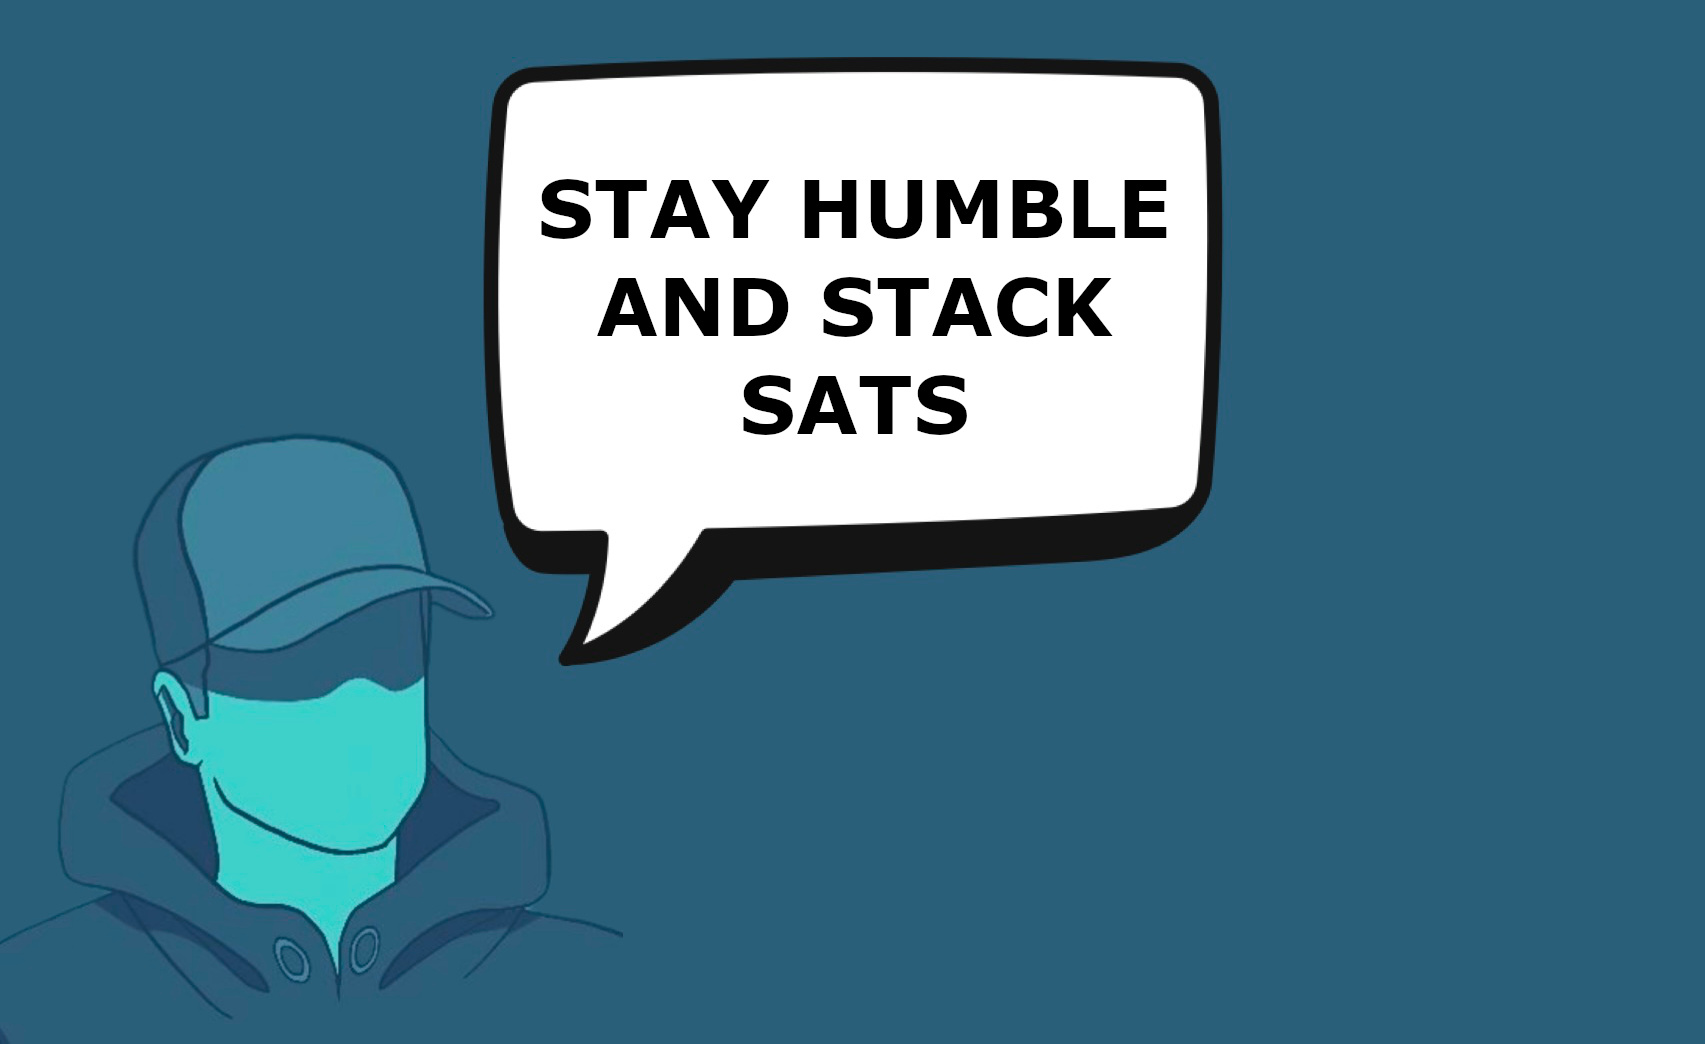
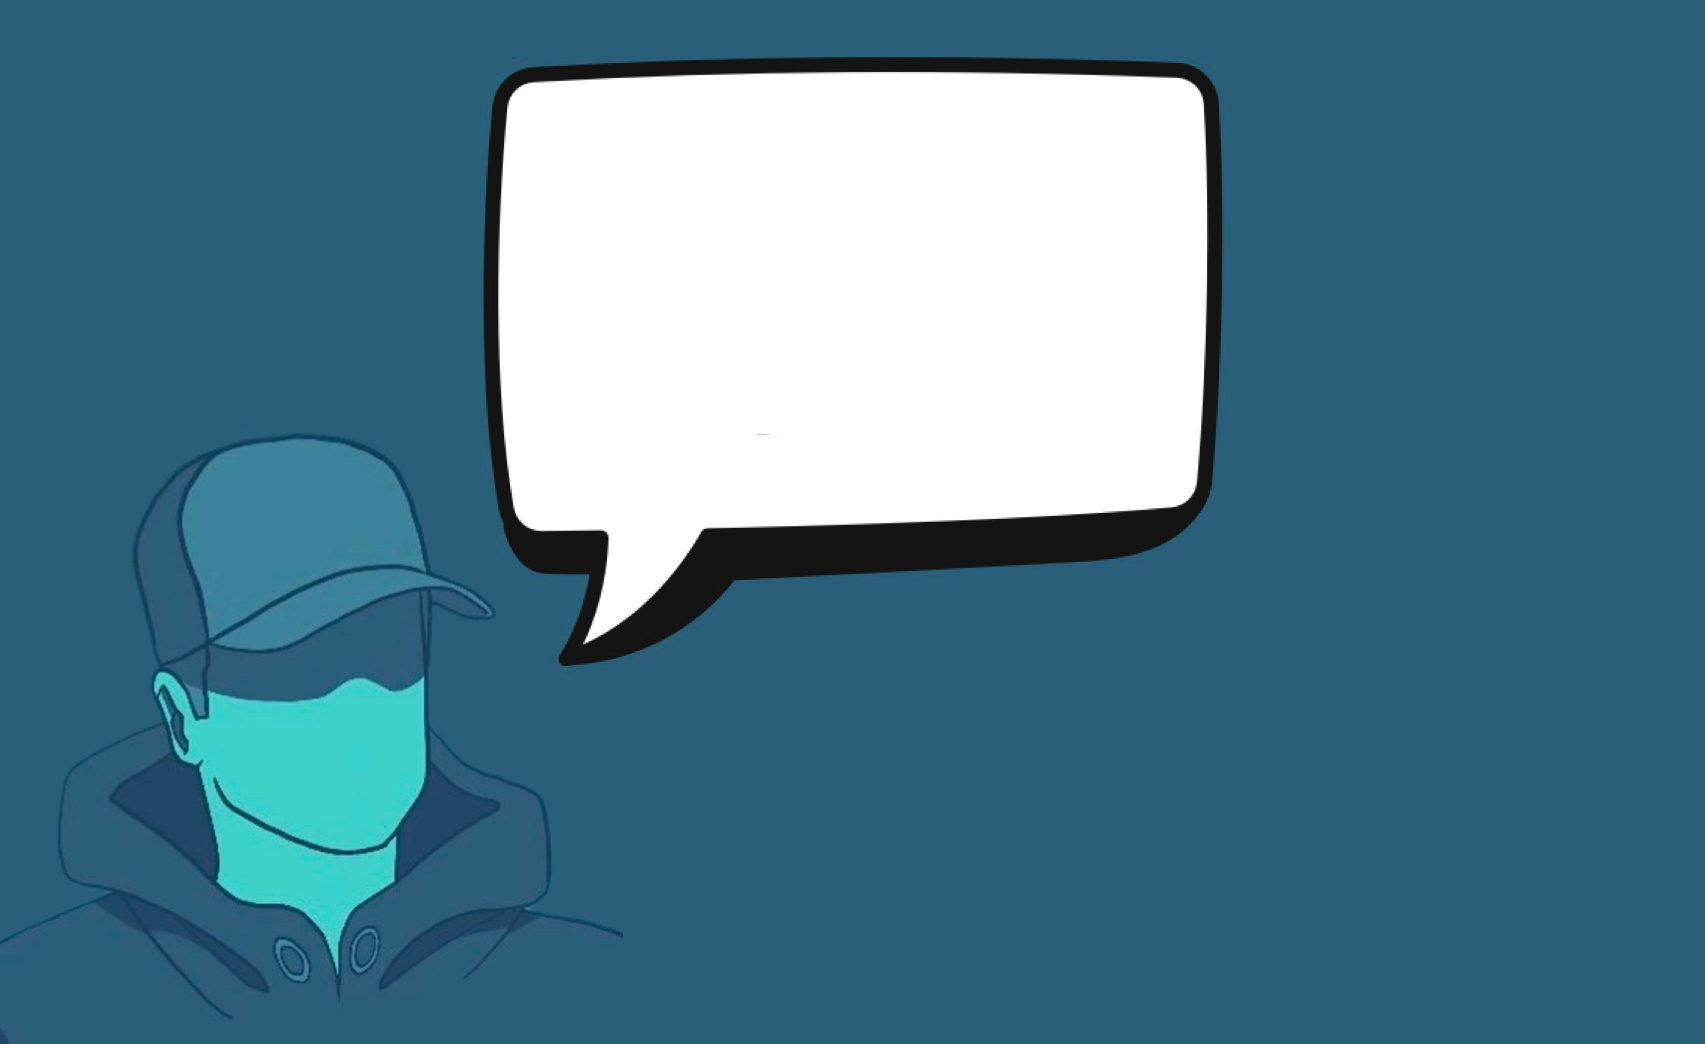
v0.0.22
Added Odellisms

Changed region(s): [[0.3109, 0.1533, 0.6839, 0.4291]]

diff --git a/index.html b/index.html
@@ -36,21 +36,22 @@
     }
 
     .made-by {
-    margin-top: 21px; /* Add margin between the container and the "Made with" text */
-    font-size: 12px;
-}
+      margin-top: 21px;
+      /* Add margin between the container and the "Made with" text */
+      font-size: 12px;
+    }
 
-.made-by a{
-    color: #ff9900;
-    text-decoration: none;
-}
+    .made-by a {
+      color: #ff9900;
+      text-decoration: none;
+    }
 
     .bottom-left-image {
       position: fixed;
       bottom: 0;
       left: 0;
       width: 100%;
-      max-width: 500px;
+      max-width: 390px;
       height: auto;
     }
 
@@ -74,15 +75,47 @@
       background-color: #2980b9;
     }
 
-.version {
+    .overlay {
+      position: fixed;
+      bottom: 120px;
+      left: 120px;
+      width: 150px;
+      height: 100px;
+      max-width: 600px;
+      /* Adjust the max-width as needed */
+      background-color: transparent;
+      text-align: center;
+      display: flex;
+      justify-content: center;
+      align-items: center;
+      pointer-events: none;
+      /* Allow clicks to go through the overlay */
+      z-index: 2;
+      /* Ensure the overlay is above other elements */
+      padding: 10px;
+      /* Add space between text and edges */
+      box-sizing: border-box;
+      /* Include padding in the total width */
+      margin: 0;
+    }
+
+    .overlay-text {
+      font-size: 21px;
+      color: black;
+      width: 100%;
+      margin: 0;
+    }
+
+    .version {
       font-size: 12px;
       color: #121212;
-    position: fixed;
-    bottom: 10px; /* Adjust the bottom value as needed */
-    left: 50%;
-    transform: translateX(-50%);
-    margin-bottom: -10px;
-}
+      position: fixed;
+      bottom: 10px;
+      /* Adjust the bottom value as needed */
+      left: 50%;
+      transform: translateX(-50%);
+      margin-bottom: -10px;
+    }
   </style>
 
 </head>
@@ -96,13 +129,17 @@
     <button id="copyButton" onclick="copyToClipboard()">COPY</button>
   </div>
 
-  <p class="made-by">MADE WITH 🐂 BY <a href="https://thebullishbitcoiner.com/" target="_blank">THEBULLISHBITCOINER</a></p>
+  <p class="made-by">MADE WITH 🐂 BY <a href="https://thebullishbitcoiner.com/" target="_blank">THEBULLISHBITCOINER</a>
+  </p>
 
-  <img src="CAPSODELL.JPG" alt="CAPSODELL" class="bottom-left-image">
+  <div id="odellism" class="overlay">
+    <span id="odellismText" class="overlay-text">STAY HUMBLE AND STACK SATS.</span>
+  </div>
+  <img src="CAPSODELL.JPG" alt="CAPSODELL" class="bottom-left-image" onclick="changeOdellism()">
 
   <div class="version">
-    <p>v0.0.21</p>
-</div>
+    <p>v0.0.22</p>
+  </div>
 
   <script>
 
@@ -124,6 +161,104 @@
       setTimeout(function () {
         copyButton.innerText = "COPY"; // Reset button text after a brief delay
       }, 1500); // Adjust the delay time as needed
+    }
+
+    // Add this function to load text from ODELLISMS.TXT
+    function loadOdellisms() {
+      return fetch('ODELLISMS.TXT')
+        .then(response => response.text())
+        .then(text => text.split('\n').filter(line => line.trim() !== ''));
+    }
+
+    // let odellisms = ["ONWARD.",
+    //   "STAY HUMBLE AND STACK SATS.",
+    //   "SATS THE STANDARD.",
+    //   "WE ARE WITNESSING BITCOIN SHORT SQUEEZE THE ENTIRE FINANCIAL SYSTEM. BILLIONS ARE SHORT HARD MONEY. FEW REALIZE IT.",
+    //   "THE REPRICING OF THE WORLD IN SATS IS ACCELERATING.",
+    //   "HASH RATE DOES NOT LEAD PRICE. HASH RATE DOES NOT LAG PRICE. HASH RATE IS THE PRICE. IT IS THE FREEST MARKET IN THE WORLD: ENERGY FOR BITCOIN."];
+
+    let odellisms = [];
+
+    function changeOdellism() {
+      // Change the text when the image is clicked
+      const odellismElement = document.getElementById('odellism');
+      if (odellisms.length === 0) {
+        // Load text if not loaded
+        loadOdellisms().then(data => {
+          odellisms = data;
+          updateOdellismText(odellismElement);
+        });
+      } else {
+        // Update the text if already loaded
+        updateOdellismText(odellismElement);
+      }
+    }
+
+    function updateOdellismText(overlay) {
+      const randomIndex = getRandomIndex();
+      const newOdellism = odellisms[randomIndex];
+
+      // Set a default font size
+      let fontSize = 24;
+
+      // Check if the odellism exceeds the height of the div
+      while (getTextHeight(newOdellism, fontSize) > overlay.clientHeight) {
+        fontSize -= 2;
+
+        // Ensure a minimum font size
+        if (fontSize < 10) {
+          break;
+        }
+      }
+
+      // Check if the odellism exceeds the width of the div
+      while (getTextWidth(newOdellism, fontSize) > overlay.clientWidth) {
+        fontSize -= 2;
+
+        // Ensure a minimum font size
+        if (fontSize < 10) {
+          break;
+        }
+      }
+
+      // If there's room available, scale back up
+      while (getTextWidth(newOdellism, fontSize) + 21 < (overlay.clientWidth) &&
+        getTextHeight(newOdellism, fontSize) < overlay.clientHeight) {
+        fontSize += 2;
+      }
+
+      // Apply the adjusted font size
+      const odellismText = document.getElementById('odellismText');
+      odellismText.style.fontSize = fontSize + 'px';
+      odellismText.innerText = newOdellism;
+    }
+
+    function getRandomIndex() {
+      // Generate a random index
+      return Math.floor(Math.random() * odellisms.length);
+    }
+
+
+    function getTextHeight(text, fontSize) {
+      const span = document.createElement('span');
+      span.style.fontSize = fontSize + 'px';
+      span.style.visibility = 'hidden';
+      span.style.position = 'absolute';
+      span.style.whiteSpace = 'nowrap';
+      span.innerText = text;
+      document.body.appendChild(span);
+      const height = span.offsetHeight;
+      document.body.removeChild(span);
+      return height;
+    }
+
+
+    function getTextWidth(text, fontSize) {
+      // Helper function to get the width of the text with a specific font size
+      const canvas = document.createElement('canvas');
+      const context = canvas.getContext('2d');
+      context.font = fontSize + 'px Arial';
+      return context.measureText(text).width;
     }
 
 
